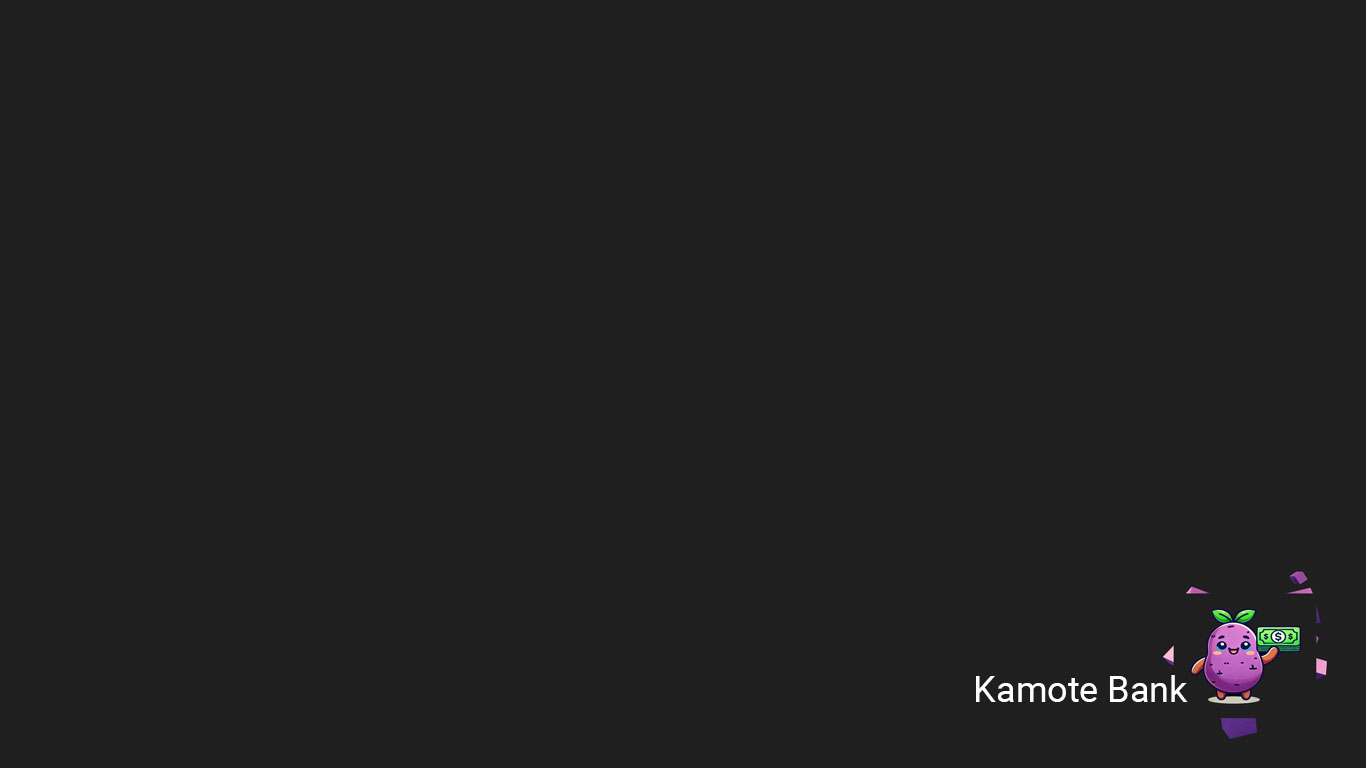
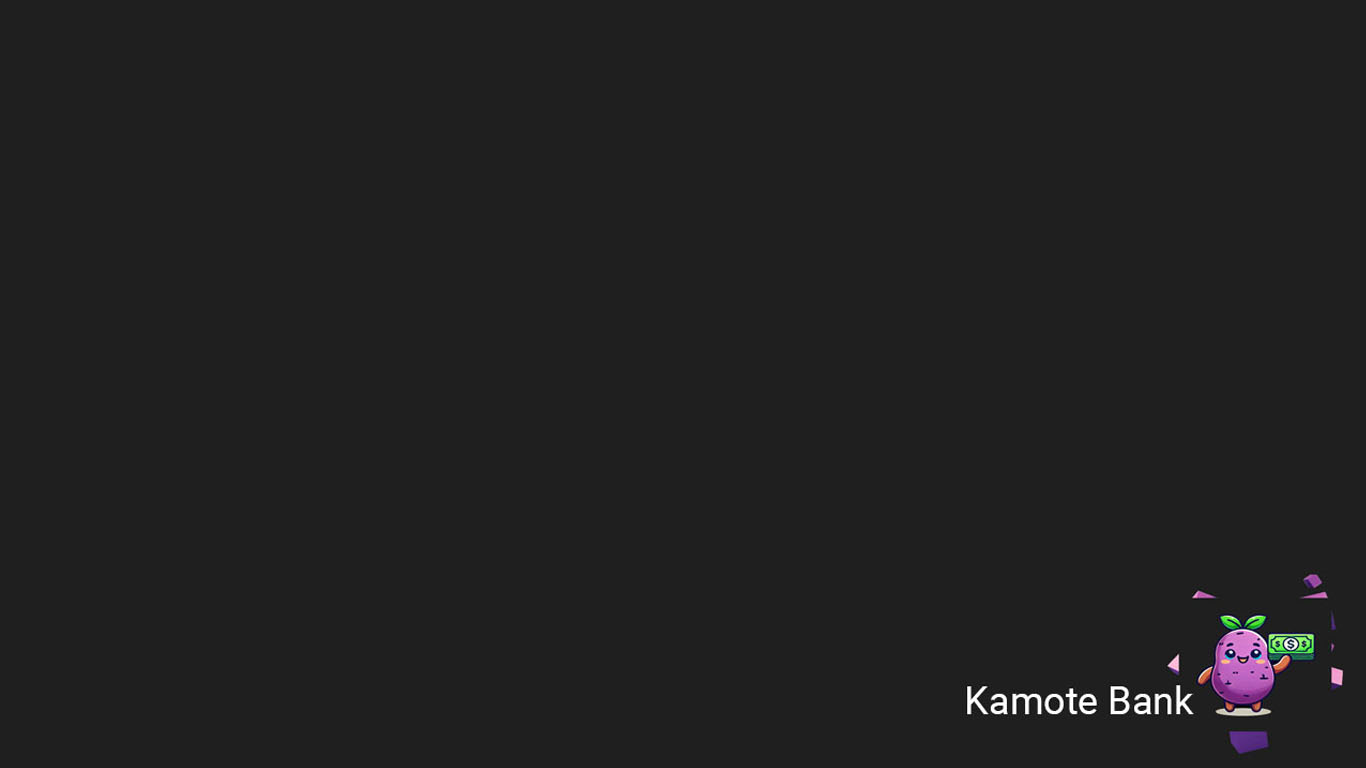
added transition

Changed region(s): [[0.7072, 0.7812, 0.9839, 1.0], [0.9224, 0.75, 0.9839, 0.7812], [0.8609, 0.75, 0.8917, 0.7812]]

diff --git a/src/components/BuyLoad/BuyLoad.css b/src/components/BuyLoad/BuyLoad.css
@@ -1,5 +1,6 @@
 .buyLoad-container {
     text-align: center;
+    padding-top: 0;
     padding: 15px; 
     border-radius: 15px; 
     height: auto;
@@ -8,7 +9,12 @@
     position: relative;
     width: 45vw;
     margin-top: 0.5rem;
-    height: 210px;
+    height: 56%;
+    display: flex;
+    justify-content:space-evenly;
+    flex-direction: column;
+    align-items: stretch;
+    /* gap: 10px; */
 }
 
 .buyLoad-header {
@@ -17,7 +23,9 @@
 }
 
 .closeIcon {
-    float: right;
+    position: absolute;
+    top: 15px;
+    right: 15px;
     width: 18px;
     margin: 0;
     cursor: pointer;
@@ -28,14 +36,25 @@
 }
 
 .telco-option-css, .input-css-load {
-    padding: 0.2rem;
+    /* padding: 0.2rem;
     padding-left: 0.5rem;
     outline: none;
     border:none;
     border-radius: 10px;
     background-color: var(--eerie_black_dark);
     color: var(--white);
+    margin-top: 5px; */
+    background: rgb(80,39,121);
+    color: whitesmoke;
     margin-top: 5px;
+    padding: 8px;
+    width: 200px;
+    border: none;
+    font-size: 12px;
+    border-radius: 10px;
+    box-shadow: 0 5px 25px rgba(0, 0, 0, 0.2);
+    outline: none;
+
 }
 
 #amountLoad{
@@ -45,22 +64,42 @@
 
 .telco-option-css, #buyLoadFor {
     width: 70%;
+    margin-bottom: 10px;
 }
 .errorMessageBuyLoad{
     color: var(--red);
     font-size: 12px;
     margin-top: 5px;
+    font-style: italic;
 }
 .payLoad {
-    display: flex;
+    /* display: flex;
     justify-content: center;
     align-items: center;
     gap: 0.5rem;
     background-color: var(--purple);
     border-radius: 15px;
     color: whitesmoke;
-    margin-top: 4px;
     height: 40px;
+    margin-top: 20px;
+    padding: 15px; */
+    margin-left: auto;
+    margin-right: auto;
+    margin-top: 10px;
+    display: flex;
+    align-items: center;
+    justify-content: center;
+    gap: 15px;
+    background: rgb(80,39,121);
+    color: whitesmoke;
+    padding: 8px;
+    width: 85%;
+    border: none;
+    font-size: 1rem;
+    border-radius: 10px;
+    box-shadow: 0 5px 25px rgba(0, 0, 0, 0.2);
+    outline: none;
+    cursor: pointer;
 }
 
 .payImg{

diff --git a/src/components/Budget/Budget.jsx b/src/components/Budget/Budget.jsx
@@ -177,7 +177,7 @@ const handleDeleteExpense = (index) => {
 
     return (
         <>
-        <div className = "budgetWindow">
+        <div className = "budgetWindow fade-in">
 
             <div className="budget-display-container">      
                 <p id="budgetTracker"> Budget Tracker </p>
@@ -205,7 +205,7 @@ const handleDeleteExpense = (index) => {
 
             {/* "Update Initial Budget" Modal */}
             {budgetVisible && (
-                <div className="modal">
+                <div className="modal fade-in">
                     <div className="update-budget-container">
                         <p className="update-budget">Update Budget</p>
                         <div className="update-budget-input">
@@ -232,7 +232,7 @@ const handleDeleteExpense = (index) => {
             ) }
 
             {/* "addExpense" Modal */}
-            {addExpenseVisible && (<div className="modal">
+            {addExpenseVisible && (<div className="modal fade-in">
                 <div className="expense-form">
                     <p className="add-expenses">Add Expenses</p>
                     Amount:*
@@ -270,7 +270,7 @@ const handleDeleteExpense = (index) => {
             }
 
      {/* Expenses List:  */}
-     <div className="expenses-notebook">
+     <div className="expenses-notebook fade-in">
                 <p className="header-expenses-notebook">Expenses List:</p>
                 {expenses.length > 0 ? (
                     expenses.map((expense, index) => (
@@ -311,7 +311,7 @@ const handleDeleteExpense = (index) => {
 
             {
         graphVisible && 
-                <div id="graph">
+                <div id="graph" className='fade-in'>
                     <p id = "yourKamoteBudget">Your Kamote Budget <img src = {sweetPotato} id = "sweetPotatoIcon"/> </p>
                     <Pie 
                     data={generateChartData()} options={chartOptions}

diff --git a/src/components/Details/Details.jsx b/src/components/Details/Details.jsx
@@ -106,7 +106,7 @@ const handleSubmit = (event) => {
 };
 
     return (
-        <div id="user-info">
+        <div id="user-info" className='fade-in'>
             <h2 id="user">{`${user["First Name"]} ${user["Last Name"]}`}</h2>
             <span id="email-holder">{user.email}</span>
             <p>Available Balance</p>
@@ -132,9 +132,10 @@ const handleSubmit = (event) => {
 
             {/* Input for deposit, withdraw, or transfer */}
             {showInput && (
-                <div id="input-container">
-                    <label id="input-label">{actionType.charAt(0).toUpperCase() + actionType.slice(1)} Amount</label>
+                <div id="input-container"  className='fade-in' >
+                    <label id="input-label"  className='fade-in' >{actionType.charAt(0).toUpperCase() + actionType.slice(1)} Amount</label>
                     <input
+                         className='fade-in' 
                         id='amount-input'
                         type='number'
                         placeholder={`PHP ${actionType} amount`}
@@ -143,7 +144,7 @@ const handleSubmit = (event) => {
                         onChange={handleInputChange}
                     />
                     {actionType === 'transfer' && (
-                        <div>
+                        <div className='fade-in' >
                             <label htmlFor="transfer-user">Transfer to: </label>
                             <select 
                                 id="transfer-user" 

diff --git a/src/components/Menu/Menu.jsx b/src/components/Menu/Menu.jsx
@@ -35,7 +35,7 @@ function Menu({ onAddUser, onManageAccounts, onPayBills, onBudget, onBuyLoad, on
     }
 
     return (
-        <div id="menu">
+        <div id="menu" className='fade-in'>
             <div id="dashboard" onClick={handleDashboardClick}>
                 <MdOutlineDashboard className='dashboard' size={38}/>
                 <p>Dashboard</p>
@@ -44,10 +44,6 @@ function Menu({ onAddUser, onManageAccounts, onPayBills, onBudget, onBuyLoad, on
                 <img src={addAccountImg} alt="add account"/>
                 <p>Add</p> 
             </div>
-            {/* <div id="manage-accounts" onClick={handleManageAccountsClick}>
-                <img src={manageAccountImg} alt="manage account"/>
-                <p>Manage</p> 
-            </div> */}
             <div id="budget" onClick={handleBudgetClick}>
                 <img src={budgetImg} alt="budget" />
                 <p>Budget</p> 
@@ -59,14 +55,6 @@ function Menu({ onAddUser, onManageAccounts, onPayBills, onBudget, onBuyLoad, on
             <div id = "logout" onClick={onLogout}> 
                 <img src={depositImg} alt="logout" /> 
                 <p>Log out</p>
-            </div>
-            {/* <div id="pay-bills" onClick={handlePayBillsClick}>
-                <img src={payBillsImg} alt="pay-bills"/>
-                <p>Pay Bills</p> 
-            </div> */}
-            <div>
-                
-                
             </div>
         </div>
     )

diff --git a/src/App.js b/src/App.js
@@ -257,8 +257,6 @@ function App() {
     setShowDetails(false)
   };
 
-
-  
 return (
     <div className="App">
       {!loggedIn ? (
@@ -268,7 +266,7 @@ return (
       ) : (
         <>
           <div id="menu-wrapper">
-            {showMenu && (
+            {showMenu && ( 
                 <Menu
                   onAddUser={handleAddUser}
                   onManageAccounts={handleManageAccounts}
@@ -294,10 +292,10 @@ return (
               {showBuyLoad && (
                 <BuyLoad onClose={handleMenuShow} 
                          onBuyLoad={handleAutoLoad} 
-                         user={selectedUser}  
-                />
+                         user={selectedUser} 
+                /> 
               )}
-              {showAccounts && (
+              {showAccounts && ( 
                 <Accounts users={users} 
                           onSelectUser={handleSelectUser} 
                           onClose={handleMenuShow}
@@ -317,7 +315,8 @@ return (
               />
               )}
             {showPayBills && (
-              <PayBills onClose={handleMenuShow} 
+              <PayBills 
+                onClose={handleMenuShow} 
                 onPayBill={handleBillsPayment} 
                 user={selectedUser} 
                 isUserSelected={isUserSelected} 

diff --git a/src/components/BuyLoad/BuyLoad.jsx b/src/components/BuyLoad/BuyLoad.jsx
@@ -54,7 +54,7 @@ function BuyLoad({ onClose, onBuyLoad, user }) {
     };
 
     return (
-        <div className="buyLoad-container">
+        <div className="buyLoad-container fade-in">
             <img className="closeIcon" src={closeIcon} onClick={onClose} /> {/* Close button */}
 
             <h2 className="buyLoad-header">Buy Mobile Load</h2>
@@ -82,7 +82,7 @@ function BuyLoad({ onClose, onBuyLoad, user }) {
                     placeholder="(input mobile number)"
                     required
                 />
-                {errorVisible &&(<div className="errorMessageBuyLoad">Please fill in all fields.</div>)}
+                {errorVisible &&(<div className="errorMessageBuyLoad fade-in">Please fill in all fields.</div>)}
                 <div className="payLoad">
                     <p>Amount</p>
                     <input

diff --git a/src/components/PayBills/PayBills.jsx b/src/components/PayBills/PayBills.jsx
@@ -46,8 +46,7 @@ function PayBills({onClose, onPayBill, user}) {
       };
 
     return (
-        <div id="paybills-container">
-            {/* <img id='paybills-close' alt='close' src={closeGrayImg} onClick={handleCloseClick} /> */}
+        <div id="paybills-container" className='fade-in'>
             <h2 id="title">Pay Bills</h2>
             
             <div id="menu-container">
@@ -78,7 +77,7 @@ function PayBills({onClose, onPayBill, user}) {
             </div>
             
         {selectedBill && (
-            <div id="pay-bill">
+            <div id="pay-bill" className='fade-in'>
             <label>{selectedBill.charAt(0).toUpperCase() + selectedBill.slice(1).replace(/-/g, ' ')}</label>
             <input
                 id={`${selectedBill}-input`}

diff --git a/src/components/Details/Details.css b/src/components/Details/Details.css
@@ -15,6 +15,7 @@ h2 {
     height: 210px;
     position: relative;
     margin-top: 0.5rem;
+    z-index: 1500;
 }
 
 #user-info > p {
@@ -22,17 +23,6 @@ h2 {
     margin-bottom: 0.25rem;
     margin-top: 1.5rem;
 }
-
-/* #email-holder {
-    font-size: 1rem;
-    margin-bottom: 1rem;
-} */
-
-/* #balance {
-  margin-left: 0.5rem;
-  font-size: 1.5rem;
-  margin-bottom: 1rem;
-} */
 
 #hide {
     vertical-align: middle;
@@ -49,6 +39,7 @@ h2 {
     gap: 1rem;
     /* bottom: 2px; */
     margin-top: 1rem;
+    z-index: 1500;
 }
 
 /* buttons */

diff --git a/src/components/Accounts/Accounts.jsx b/src/components/Accounts/Accounts.jsx
@@ -19,7 +19,7 @@ function Accounts({users, onSelectUser}) {
     };
 
     return (
-        <div id="accounts-container">
+        <div id="accounts-container" className='fade-in'>
             <h2>Select a Kamote Account</h2>
             <ul id="userlist">
                 {users.slice().reverse().map((user, index) => (

diff --git a/src/components/History/History.jsx b/src/components/History/History.jsx
@@ -10,7 +10,7 @@ function History({ transactionHistory }) {
     };
 
     return (
-        <div id="history-container">
+        <div id="history-container" className ="fade-in">
             <h3>Transaction History</h3>
             <div id="history-table-container">
                 <table id="history-table">

diff --git a/src/components/Users/Users.jsx b/src/components/Users/Users.jsx
@@ -71,7 +71,7 @@ function Users({ users, setUsers, onClose }) {
 
     }
     return (
-        <div id="contain">
+        <div id="contain" className='fade-in'>
             <form id="form-container" onSubmit={handleSubmit}>
                 
                 <h2>Add Kamote</h2>

diff --git a/src/App.css b/src/App.css
@@ -11,6 +11,16 @@
   background-position: center;
 }
 
+.fade-in {
+  opacity: 0;
+  animation: fadeIn 0.5s ease-in forwards;
+}
+
+@keyframes fadeIn {
+  to {
+    opacity: 1;
+  }
+}
 #menu-wrapper {
   display: flex;
   flex-direction: column; 
